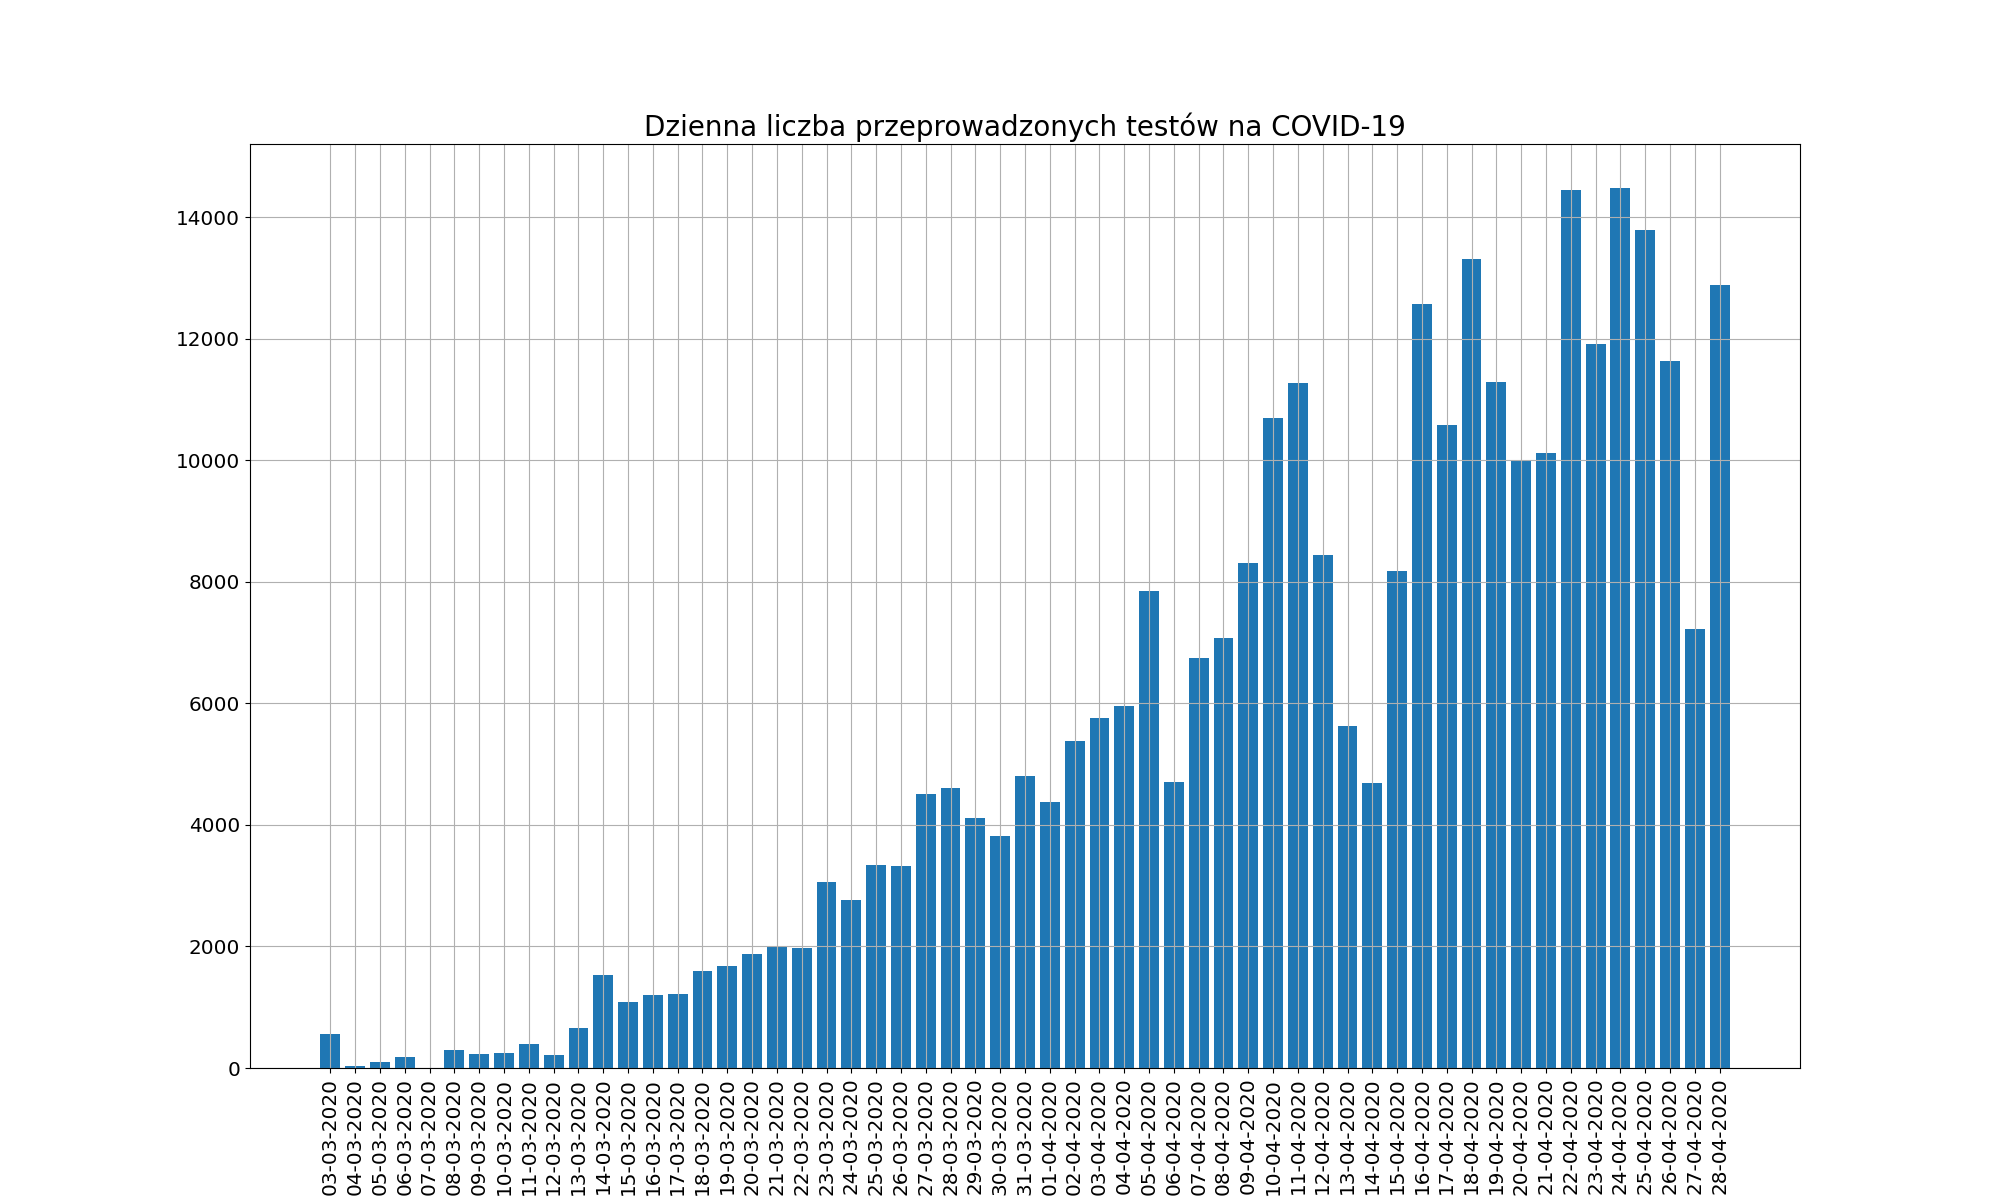
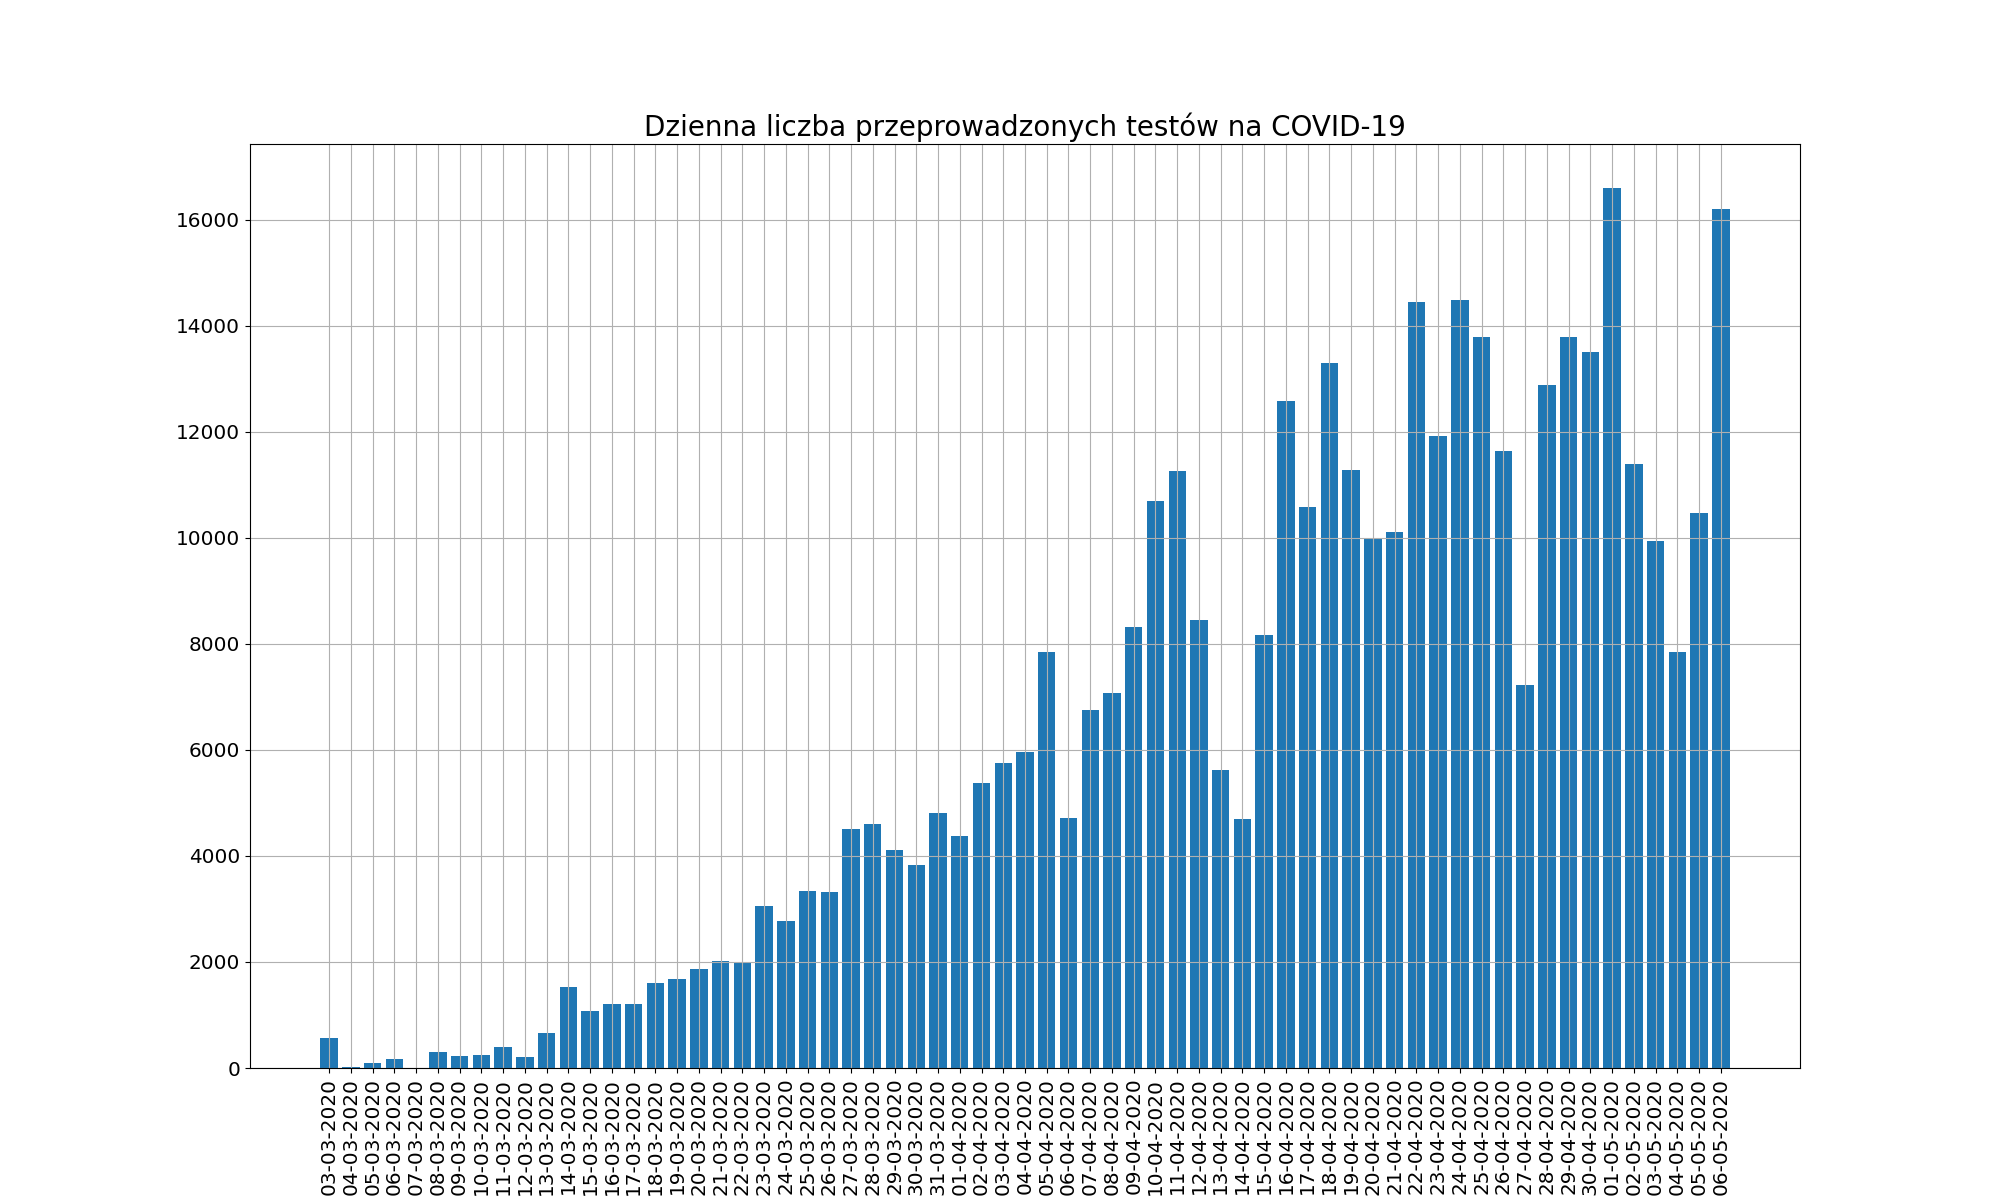
updating data done

diff --git a/DataService.py b/DataService.py
@@ -1,12 +1,26 @@
 import csv
 from TypeEnum import Type
+import requests
+from bs4 import BeautifulSoup
+
+URL = 'https://raw.githubusercontent.com/dtandev/coronavirus/master/data/CoronavirusPL%20-%20General.csv'
+
+
+def refresh_data():
+    source = requests.get(URL)
+    if source.ok:
+        soup = BeautifulSoup(source.text, 'html.parser')
+        print("aaa")
+        f = open("data.csv", "w")
+        f.write(soup.prettify())
+        f.close()
 
 
 def get_data(data_type: Type):
     dates_list = []
     data_list = []
     try:
-        file = open("CoronavirusPL - General.csv")
+        file = open("data.csv")
         csv_reader = csv.reader(file, delimiter=",")
 
         if data_type == Type.DAILY_NUMBER_OF_TESTS:

diff --git a/PlotImageParse.py b/PlotImageParse.py
@@ -9,6 +9,8 @@ params = {'legend.fontsize': 'x-large',
           'xtick.labelsize': 'x-large',
           'ytick.labelsize': 'x-large'}
 
+plots = [Type.CONFIRMED, Type.IN_QUARANTINE, Type.NUMBER_OF_TESTS, Type.DAILY_NUMBER_OF_TESTS]
+
 
 def create_plot(data_type: Type):
     dates, data = get_data(data_type)
@@ -19,3 +21,8 @@ def create_plot(data_type: Type):
     plt.title(parse_to_title(data_type), fontsize=20)
     plt.xticks(rotation=90)
     plt.savefig(f"static/images/{parse_to_title(data_type)}")
+
+
+def refresh_plots():
+    for enum in plots:
+        create_plot(enum)

diff --git a/RestController.py b/RestController.py
@@ -1,5 +1,6 @@
 from flask import Flask, render_template
-from PlotImageParse import create_plot
+from PlotImageParse import create_plot, refresh_plots
+from DataService import refresh_data
 from TypeEnum import Type
 
 app = Flask(__name__)
@@ -35,4 +36,6 @@ def daily_number_of_tests():
 
 
 if __name__ == '__main__':
+    refresh_data()
+    refresh_plots()
     app.run(debug=True)
